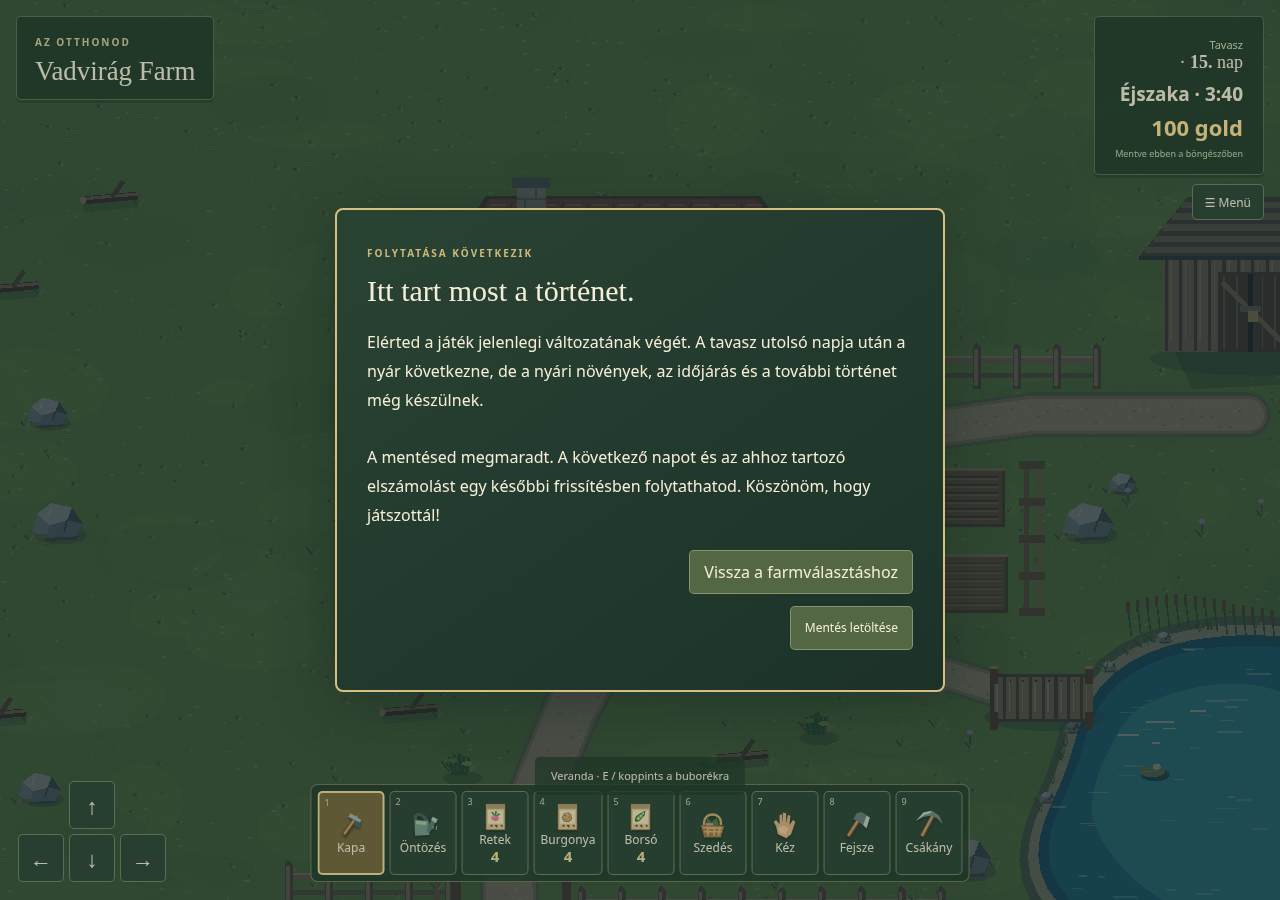
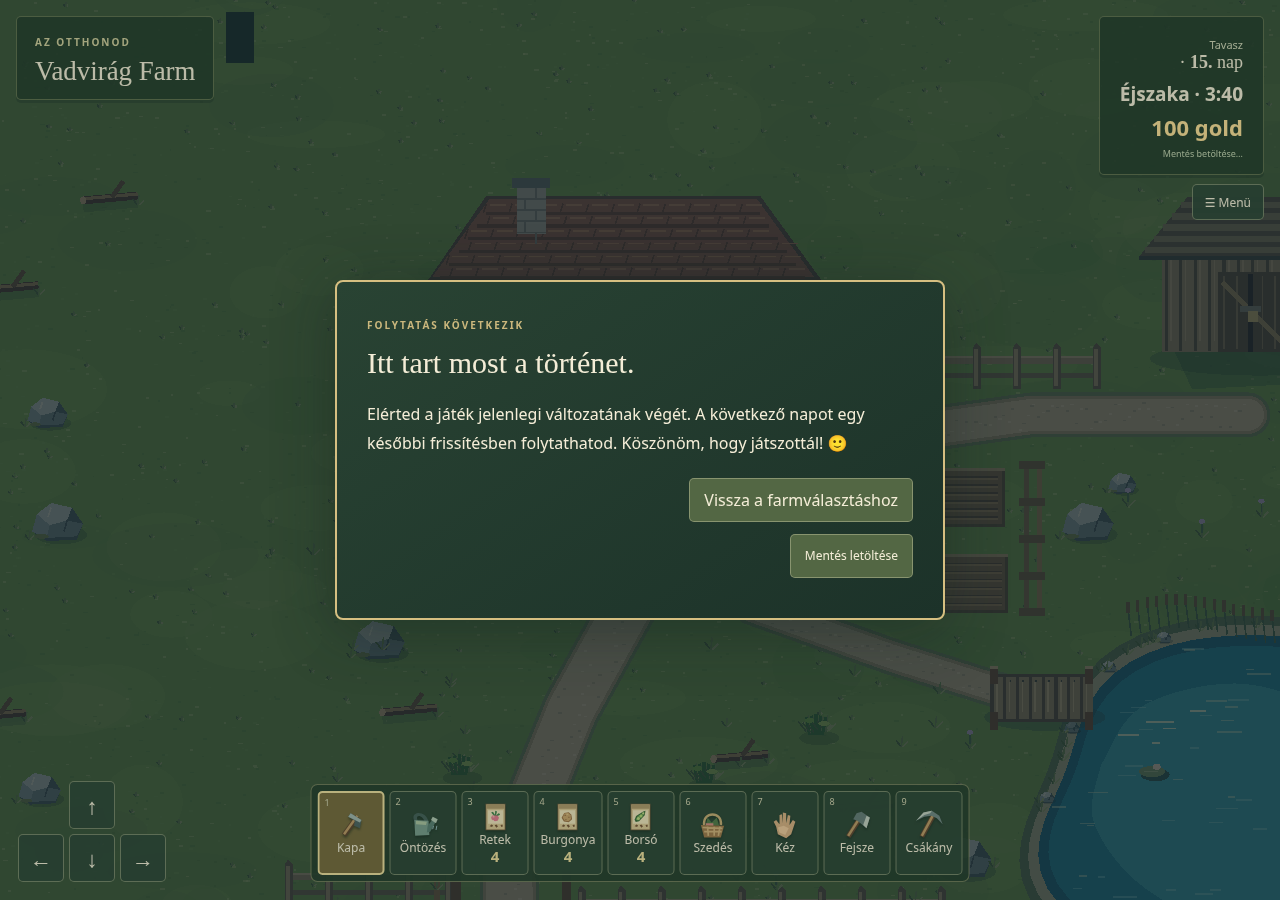
Use the approved shorter end-of-preview message

diff --git a/src/main.ts b/src/main.ts
@@ -277,7 +277,7 @@ class Farm extends Phaser.Scene {
  }
 
  private showPreviewEnd(){
-  showDialogue('Itt tart most a történet.','Elérted a játék jelenlegi változatának végét. A tavasz utolsó napja után a nyár következne, de a nyári növények, az időjárás és a további történet még készülnek.\n\nA mentésed megmaradt. A következő napot és az ahhoz tartozó elszámolást egy későbbi frissítésben folytathatod. Köszönöm, hogy játszottál!','FOLYTATÁSA KÖVETKEZIK');
+  showDialogue('Itt tart most a történet.','Elérted a játék jelenlegi változatának végét. A következő napot egy későbbi frissítésben folytathatod. Köszönöm, hogy játszottál! 🙂','FOLYTATÁS KÖVETKEZIK');
   dialogue.dataset.presentation='development-end';document.querySelector<HTMLElement>('#preview-end-panel')!.hidden=false;document.querySelector<HTMLButtonElement>('#dialogue-close')!.hidden=true;document.querySelector<HTMLButtonElement>('#export-save')!.hidden=false;
  }
  private async finishSpringPreview(){

diff --git a/docs/jatekterv.md b/docs/jatekterv.md
@@ -407,3 +407,5 @@ Az új farm elnevezésekor és a Menü → Történet felületen az alábbi köz
 - A korábban már nyárba vagy későbbre jutott mentéseket nem tekerjük vissza: megnyitásukkor ugyanez a fejlesztési határ fogadja a játékost, az eredeti adatait megőrizve.
 
 - A bevezetőből eltűnt az „EGY ÚJ KEZDET” és a „Végre megérkeztem.” címsor. A farmnév mezőben nincs helykitöltő, a „Farm neve” címke megmarad. Az indítógomb felirata „Tovább”. A Történet menüpont ugyanezt a cím nélküli bevezetőt mutatja.
+
+- A fejlesztési határ véglegesített üzenete: „FOLYTATÁS KÖVETKEZIK” / „Itt tart most a történet.” / „Elérted a játék jelenlegi változatának végét. A következő napot egy későbbi frissítésben folytathatod. Köszönöm, hogy játszottál! 🙂”
